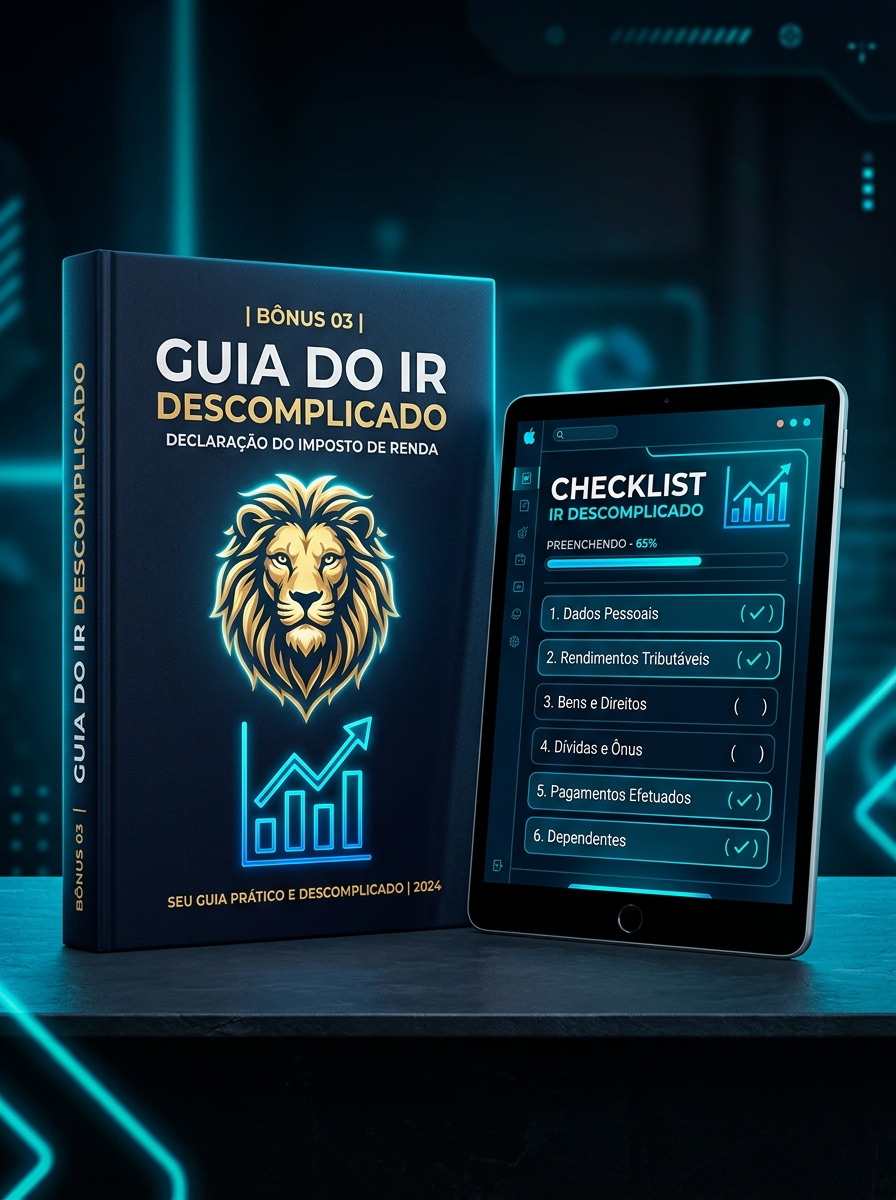
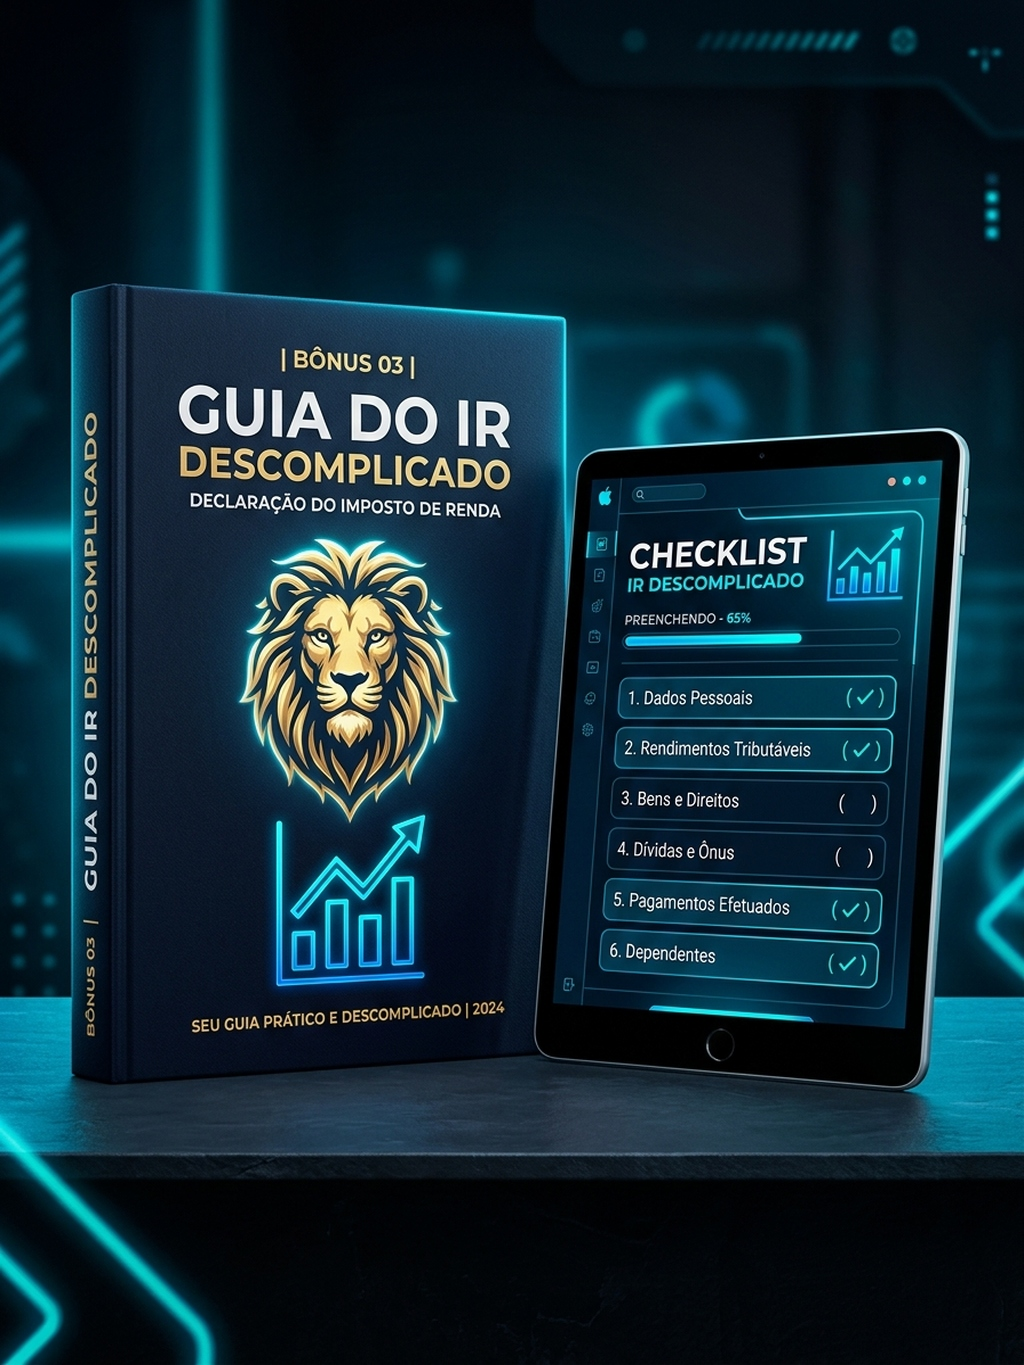
refactor: update bonus asset images
Replace existing bonus images with updated versions.

diff --git a/src/App.tsx b/src/App.tsx
@@ -1074,22 +1074,25 @@ export default function App() {
             </p>
           </div>
 
-          <div className="grid grid-cols-1 md:grid-cols-2 lg:grid-cols-3 gap-5">
+          <div className="flex flex-wrap justify-center gap-6">
             
             {/* Bônus 1 */}
-            <article className="glass-tech-purple border-2 border-dashed border-purple-400/40 rounded-2xl p-5 flex flex-col justify-between shadow-lg">
+            <article className="w-full sm:w-[calc(50%-16px)] lg:w-[calc(33.333%-16px)] max-w-sm glass-tech-purple border-2 border-dashed border-purple-400/40 rounded-2xl p-5 flex flex-col justify-between shadow-lg">
               <div>
                 <span className="inline-block bg-[#FFC94D] text-[#5A3F00] font-black text-[11px] tracking-wider uppercase rounded-full px-3 py-0.5 mb-3">
                   BÔNUS 01
                 </span>
                 
-                {/* Imagem do Bônus 1 */}
-                <div className="rounded-xl overflow-hidden border border-purple-400/30 mb-4 bg-[#0A0116] shadow-md group">
+                {/* Imagem do Bônus 1 em formato 3:4 (vertical) 1024x1365 px */}
+                <div className="w-full aspect-[3/4] rounded-xl overflow-hidden border border-purple-400/30 mb-4 bg-[#0A0116] shadow-md group relative">
                   <img
                     src={bonus01ChecklistImg}
                     alt="Bônus 01: Checklist do Plano de 30 Dias"
-                    className="w-full h-52 sm:h-56 object-cover object-top group-hover:scale-105 transition-transform duration-500"
+                    width={1024}
+                    height={1365}
+                    className="w-full h-full object-cover object-center group-hover:scale-105 transition-transform duration-500"
                     referrerPolicy="no-referrer"
+                    loading="lazy"
                   />
                 </div>
 
@@ -1116,19 +1119,22 @@ export default function App() {
             </article>
 
             {/* Bônus 2 */}
-            <article className="glass-tech-purple border-2 border-dashed border-purple-400/40 rounded-2xl p-5 flex flex-col justify-between shadow-lg">
+            <article className="w-full sm:w-[calc(50%-16px)] lg:w-[calc(33.333%-16px)] max-w-sm glass-tech-purple border-2 border-dashed border-purple-400/40 rounded-2xl p-5 flex flex-col justify-between shadow-lg">
               <div>
                 <span className="inline-block bg-[#FFC94D] text-[#5A3F00] font-black text-[11px] tracking-wider uppercase rounded-full px-3 py-0.5 mb-3">
                   BÔNUS 02
                 </span>
 
-                {/* Imagem do Bônus 2 */}
-                <div className="rounded-xl overflow-hidden border border-purple-400/30 mb-4 bg-[#0A0116] shadow-md group">
+                {/* Imagem do Bônus 2 em formato 3:4 (vertical) 1024x1365 px */}
+                <div className="w-full aspect-[3/4] rounded-xl overflow-hidden border border-purple-400/30 mb-4 bg-[#0A0116] shadow-md group relative">
                   <img
                     src={bonus02ManualErrosImg}
                     alt="Bônus 02: Manual dos 10 Piores Erros"
-                    className="w-full h-52 sm:h-56 object-cover object-top group-hover:scale-105 transition-transform duration-500"
+                    width={1024}
+                    height={1365}
+                    className="w-full h-full object-cover object-center group-hover:scale-105 transition-transform duration-500"
                     referrerPolicy="no-referrer"
+                    loading="lazy"
                   />
                 </div>
 
@@ -1155,19 +1161,22 @@ export default function App() {
             </article>
 
             {/* Bônus 3 */}
-            <article className="glass-tech-purple border-2 border-dashed border-purple-400/40 rounded-2xl p-5 flex flex-col justify-between shadow-lg">
+            <article className="w-full sm:w-[calc(50%-16px)] lg:w-[calc(33.333%-16px)] max-w-sm glass-tech-purple border-2 border-dashed border-purple-400/40 rounded-2xl p-5 flex flex-col justify-between shadow-lg">
               <div>
                 <span className="inline-block bg-[#FFC94D] text-[#5A3F00] font-black text-[11px] tracking-wider uppercase rounded-full px-3 py-0.5 mb-3">
                   BÔNUS 03
                 </span>
 
-                {/* Imagem do Bônus 3 */}
-                <div className="rounded-xl overflow-hidden border border-purple-400/30 mb-4 bg-[#0A0116] shadow-md group">
+                {/* Imagem do Bônus 3 em formato 3:4 (vertical) 1024x1365 px */}
+                <div className="w-full aspect-[3/4] rounded-xl overflow-hidden border border-purple-400/30 mb-4 bg-[#0A0116] shadow-md group relative">
                   <img
                     src={bonus03GuiaIRImg}
                     alt="Bônus 03: Guia do IR Descomplicado"
-                    className="w-full h-52 sm:h-56 object-cover object-top group-hover:scale-105 transition-transform duration-500"
+                    width={1024}
+                    height={1365}
+                    className="w-full h-full object-cover object-center group-hover:scale-105 transition-transform duration-500"
                     referrerPolicy="no-referrer"
+                    loading="lazy"
                   />
                 </div>
 
@@ -1194,19 +1203,22 @@ export default function App() {
             </article>
 
             {/* Bônus 4 (ChatGPT Finanças) */}
-            <article className="glass-tech-purple border-2 border-dashed border-cyan-400/50 rounded-2xl p-5 flex flex-col justify-between shadow-lg md:col-span-1 lg:col-span-1">
+            <article className="w-full sm:w-[calc(50%-16px)] lg:w-[calc(33.333%-16px)] max-w-sm glass-tech-purple border-2 border-dashed border-cyan-400/50 rounded-2xl p-5 flex flex-col justify-between shadow-lg">
               <div>
                 <span className="inline-block bg-[#06B6D4] text-[#0A0116] font-black text-[11px] tracking-wider uppercase rounded-full px-3 py-0.5 mb-3">
                   BÔNUS 04 · INTELIGÊNCIA ARTIFICIAL
                 </span>
 
-                {/* Imagem do Bônus 4 */}
-                <div className="rounded-xl overflow-hidden border border-cyan-400/40 mb-4 bg-[#0A0116] shadow-md group">
+                {/* Imagem do Bônus 4 em formato 3:4 (vertical) 1024x1365 px */}
+                <div className="w-full aspect-[3/4] rounded-xl overflow-hidden border border-cyan-400/40 mb-4 bg-[#0A0116] shadow-md group relative">
                   <img
                     src={bonus04ChatGPTImg}
                     alt="Bônus 04: ChatGPT para Finanças"
-                    className="w-full h-52 sm:h-56 object-cover object-top group-hover:scale-105 transition-transform duration-500"
+                    width={1024}
+                    height={1365}
+                    className="w-full h-full object-cover object-center group-hover:scale-105 transition-transform duration-500"
                     referrerPolicy="no-referrer"
+                    loading="lazy"
                   />
                 </div>
 
@@ -1233,19 +1245,22 @@ export default function App() {
             </article>
 
             {/* Bônus 5 (Quadro de Metas 2027) */}
-            <article className="glass-tech-purple border-2 border-dashed border-fuchsia-400/50 rounded-2xl p-5 flex flex-col justify-between shadow-lg md:col-span-2 lg:col-span-2">
+            <article className="w-full sm:w-[calc(50%-16px)] lg:w-[calc(33.333%-16px)] max-w-sm glass-tech-purple border-2 border-dashed border-fuchsia-400/50 rounded-2xl p-5 flex flex-col justify-between shadow-lg">
               <div>
                 <span className="inline-block bg-gradient-to-r from-[#A855F7] to-[#EC4899] text-white font-black text-[11px] tracking-wider uppercase rounded-full px-3 py-0.5 mb-3">
                   BÔNUS 05 · ALTO IMPACTO
                 </span>
 
-                {/* Imagem do Bônus 5 */}
-                <div className="rounded-xl overflow-hidden border border-fuchsia-400/40 mb-4 bg-[#0A0116] shadow-md group">
+                {/* Imagem do Bônus 5 em formato 3:4 (vertical) 1024x1365 px */}
+                <div className="w-full aspect-[3/4] rounded-xl overflow-hidden border border-fuchsia-400/40 mb-4 bg-[#0A0116] shadow-md group relative">
                   <img
                     src={bonus05QuadroMetasImg}
                     alt="Bônus 05: Quadro de Metas: Um 2027 de Conquistas"
-                    className="w-full h-52 sm:h-56 object-cover object-top group-hover:scale-105 transition-transform duration-500"
+                    width={1024}
+                    height={1365}
+                    className="w-full h-full object-cover object-center group-hover:scale-105 transition-transform duration-500"
                     referrerPolicy="no-referrer"
+                    loading="lazy"
                   />
                 </div>
 
